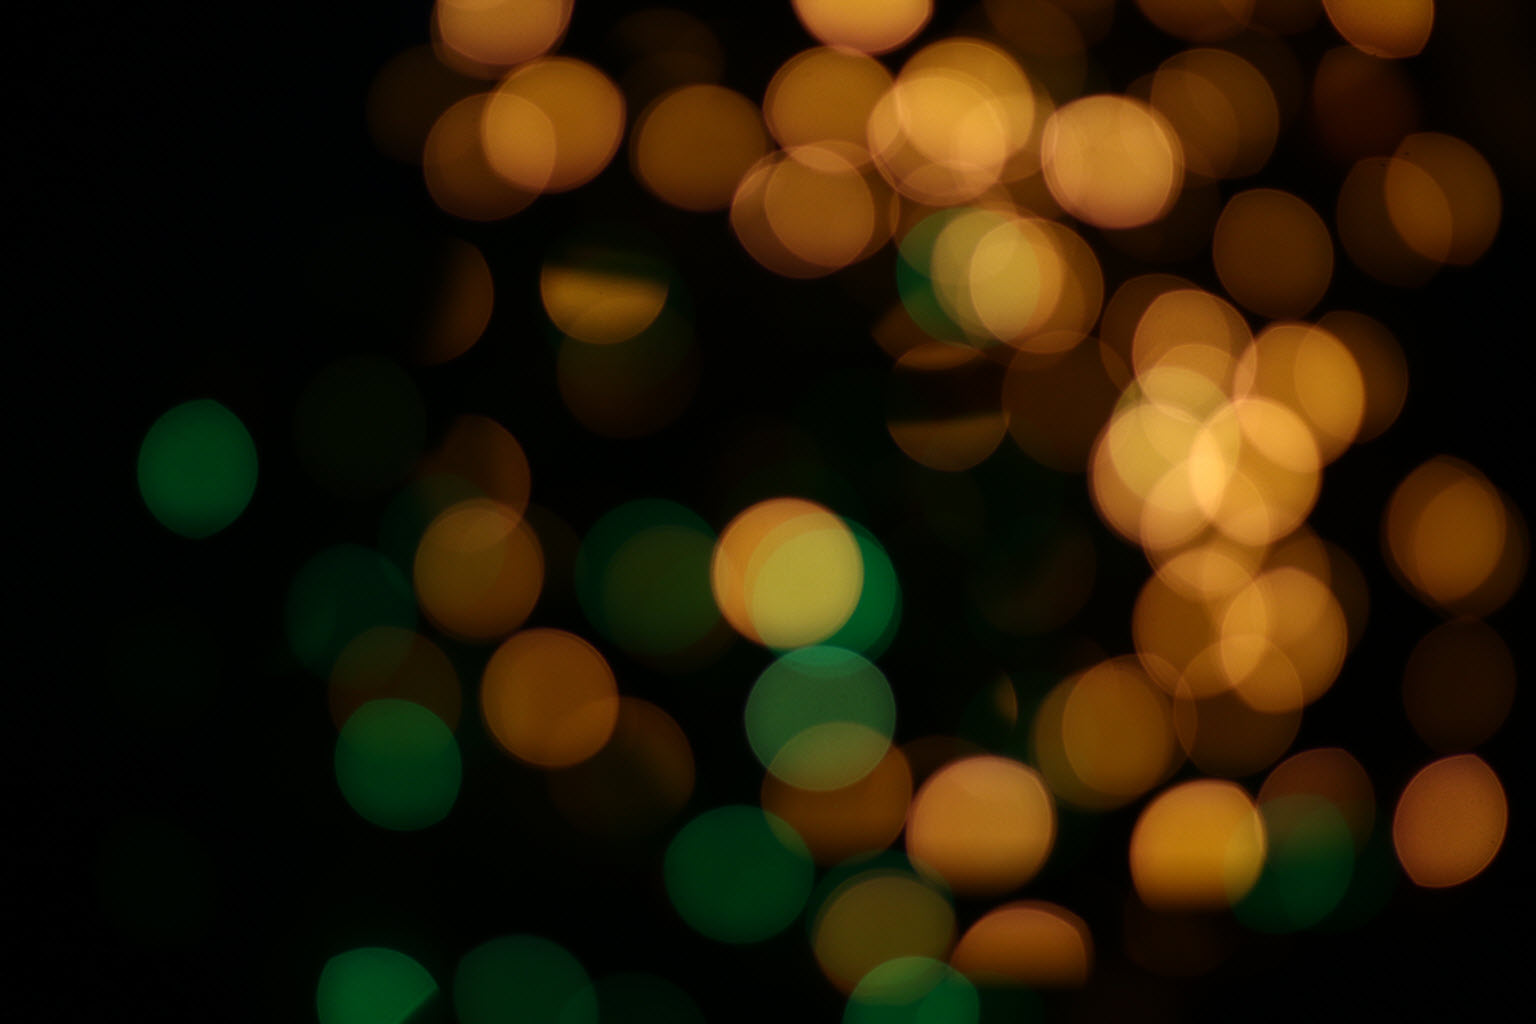
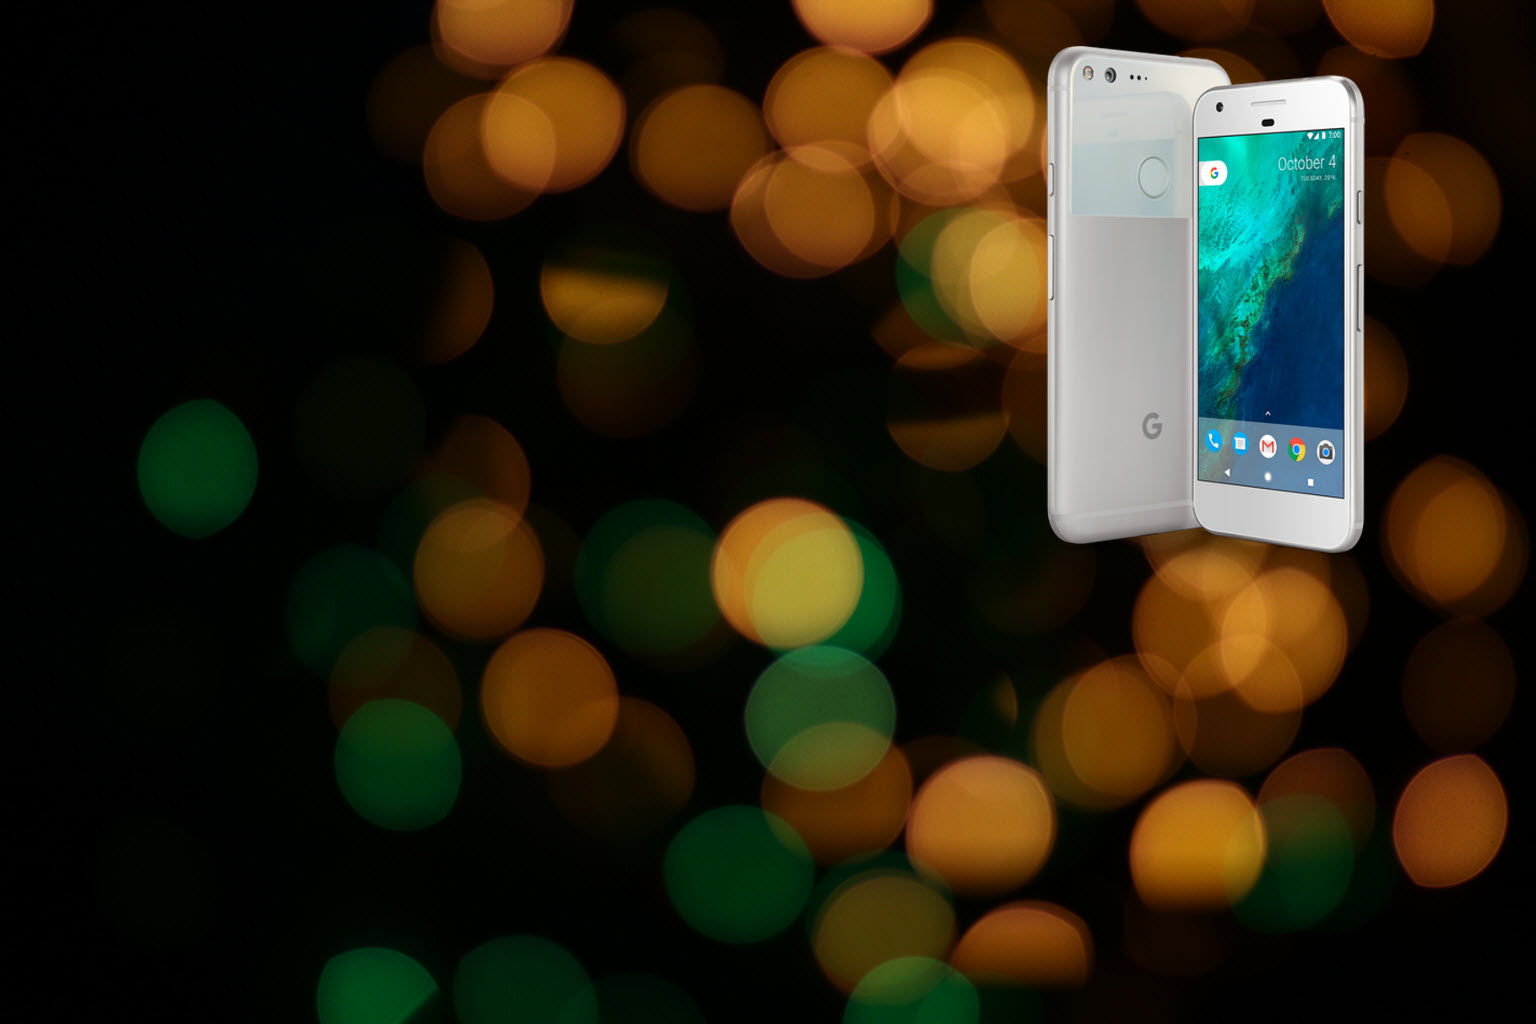
Added Telecom

Changed region(s): [[0.6562, 0.0312, 0.9062, 0.5625]]

diff --git a/app/templates/telecom.html b/app/templates/telecom.html
@@ -1,0 +1,247 @@
+{% extends "base.html" %}
+
+<!DOCTYPE html>
+<html lang="en">
+
+
+
+<title>Turner Manufacturing</title>
+<body>
+
+    {% block navbar %}
+
+    <!--Navbar-->
+    <nav class="navbar navbar-fixed-top navbar-dark bg-primary">
+
+        <!-- Collapse button-->
+        <button class="navbar-toggler hidden-sm-up" type="button" data-toggle="collapse" data-target="#collapseEx2">
+            <i class="fa fa-bars"></i>
+        </button>
+
+        <div class="container">
+
+            <!--Collapse content-->
+            <div class="collapse navbar-toggleable-xs" id="collapseEx2">
+                
+                <!--Navbar Brand-->
+                <a class="navbar-brand"></a>
+                
+                <!--Links-->
+                <ul class="nav navbar-nav">
+                    <!-- <li id="navbar-logo" class="nav-item">
+                        <a class="nav-link">
+                            <img src="../static/img/turner-travel.png">
+                        </a>
+                    </li> -->
+                    <li class="nav-item active">
+                        <a class="nav-link">Phones & Devices <span class="sr-only">(current)</span></a>
+                    </li>
+                    <li class="nav-item">
+                        <a class="nav-link">Plans & Services</a>
+                    </li>
+                    <li class="nav-item">
+                        <a class="nav-link">Accessories  </a>
+                    </li>
+                    <li class="nav-item">
+                        <a class="nav-link">Why Turner</a>
+                    </li>
+                    <li class="nav-item">
+                        <a class="nav-link">Deals & Offers</a>
+                    </li>                    
+                    
+                </ul>
+
+                <ul class="nav navbar-nav nav-flex-icons">
+                    <li class="nav-item btn-group">
+                        <a class="nav-link dropdown-toggle" id="dropdownMenu1" data-toggle="dropdown" aria-haspopup="true" aria-expanded="false">Content Recommendations</a>
+                        <div class="dropdown-menu" aria-labelledby="dropdownMenu1">
+                            <a class="dropdown-item" href="http://sjrtp-proxy.marketo.com/proxy/rtp/preview?rtp.cuid=be490296-e57b-430c-9aed-3fc49c52cf17&_dc=1482954438051">Display Ad- Economist</a>
+                            <a class="dropdown-item" href="http://sjrtp-proxy.marketo.com/proxy/rtp/preview?rtp.cuid=8a8b4d06-9461-4ff3-8718-2040b36d3762&_dc=1482954483838">Display Ad- Facebook</a>
+                            <div class="dropdown-divider"></div>
+                            <h6 class="dropdown-header">Verticals</h6>
+                            <div class="dropdown-divider"></div>
+                            <a class="dropdown-item" href="assetmgmt">Asset Management</a>
+                            <a class="dropdown-item" href="healthcare">Healthcare</a>
+                            <a class="dropdown-item" href="highered">Higher Education</a>
+                            <a class="dropdown-item" href="manufacturing">Manufacturing</a>
+                            <a class="dropdown-item" href="financialservices">Retail Banking</a>
+                            <a class="dropdown-item" href="technology">Technology</a>
+                            <a class="dropdown-item" href="travel">Travel</a>      
+                            <a class="dropdown-item" href="travel">Telecom</a>
+                        </div>
+                    </li>       
+                </ul>
+            </div>
+            <!--/.Collapse content-->
+
+        </div>
+
+    </nav>
+    <!--/.Navbar-->
+
+        
+    {% endblock %} 
+
+    {% block carousel_content %}
+    <!--Carousel Wrapper-->
+    <div id="carousel-example-1" class="carousel slide carousel-fade" data-ride="carousel">
+
+        <!--Slides-->
+        <div class="carousel-inner" role="listbox">
+
+            <!--First slide-->
+            <div class="carousel-item active" id="rtp-replace" style= "background-image: url(../static/img/317_hero.jpg)";>
+
+                <!--Caption-->
+                <div class="flex-center animated fadeInDown">
+                    <ul>
+                        <li>
+                            <h1 class="h1-responsive">Ends Soon, Buy a new Pixel for $499.</h1></li>
+                        <li>
+                           <a target="_blank" href="http://mdbootstrap.com/material-design-for-bootstrap/" class="btn btn-default btn-lg bg-primary">Read More</a>
+                        </li>
+                    </ul>
+                </div>
+                <!--Caption-->
+            </div>
+            <!--/.First slide-->
+
+        </div>
+        <!--/.Slides-->
+        
+    </div>
+    <!--/.Carousel Wrapper-->
+
+    {% endblock %}
+
+    {% block page_content %}
+    <!--Content-->
+    <div class="container">
+        
+        <div class="row">
+            <!--First columnn-->
+            <div class="col-md-4">
+                <!--Card-->
+                <div class="card">
+
+                    <!--Card image-->
+                    <div class="view overlay hm-white-slight">
+                        <img src="../static/img/telecom_card1.jpg" class="img-fluid" alt="">
+                        <a href="#">
+                            <div class="mask"></div>
+                        </a>
+                    </div>
+                    <!--/.Card image-->
+
+                    <!--Card content-->
+                    <div class="card-block">
+                        <!--Title-->
+                        <h4 class="card-title">Data plans</h4>
+                        <!--Text-->
+                        <p class="card-text">Stays Social ! Get unlimited shared data with no overage charges. All in one plan.</p>
+                        <a href="#" class="btn btn-primary">Learn more</a>
+                    </div>
+                    <!--/.Card content-->
+
+                </div>
+                <!--/.Card-->
+            </div>
+            <!--First columnn-->
+
+            <!--Second columnn-->
+            <div class="col-md-4">
+                <!--Card-->
+                <div class="card">
+
+                    <!--Card image-->
+                    <div class="view overlay hm-white-slight">
+                        <img src="../static/img/telecom_card2.jpg" class="img-fluid" alt="">
+                        <a href="#">
+                            <div class="mask"></div>
+                        </a>
+                    </div>
+                    <!--/.Card image-->
+
+                    <!--Card content-->
+                    <div class="card-block">
+                        <!--Title-->
+                        <h4 class="card-title">Network Coverage</h4>
+                        <!--Text-->
+                        <p class="card-text">We have the widest network coverage on our state of the art 4G LTE Advanced network.</p>
+                        <a href="#" class="btn btn-primary">Read More</a>
+                    </div>
+                    <!--/.Card content-->
+
+                </div>
+                <!--/.Card-->
+            </div>
+            <!--Second columnn-->
+
+            <!--Third columnn-->
+            <div class="col-md-4">
+                <!--Card-->
+                <div class="card">
+
+                    <!--Card image-->
+                    <div class="view overlay hm-white-slight">
+                        <img src="../static/img/telecom_card3.jpg" class="img-fluid" alt="">
+                        <a href="#">
+                            <div class="mask"></div>
+                        </a>
+                    </div>
+                    <!--/.Card image-->
+
+                    <!--Card content-->
+                    <div class="card-block">
+                        <!--Title-->
+                        <h4 class="card-title">Accessories</h4>
+                        <!--Text-->
+                        <p class="card-text">Now available, Morpheus Juice Pack Case. It's your new case to stay in charge.</p>
+                        <a href="#" class="btn btn-primary">Watch Video</a>
+                    </div>
+                    <!--/.Card content-->
+
+                </div>
+                <!--/.Card-->
+            </div>
+            <!--Third columnn-->
+        </div>
+
+        
+        <aside id="mk-sidebar" class="mk-builtin"><div class="sidebar-wrapper">
+            <style>
+                .RTP_RCMD2 {
+                    line-height: normal !important;
+                }
+                .RTP_RCMD2 [data-rtp-id="rtp_rcmd2_tpl_2"] .rtp_rcmd2_img_container {
+                    height: 100% !important;
+                }
+            </style>
+            <div class="RTP_RCMD2" data-rtp-template-id="template1"></div> 
+
+                <script type="text/javascript">// 
+                rtp('set', 'rcmd', 'richmedia','template1',
+                {
+                    "rcmd.title.text" : "RECOMMENDED CONTENT",
+                    "rcmd.cta.text" : "READ MORE",
+                    "rcmd.title.background.color" : "#4285F4",
+                    "rcmd.title.font.color" : "white",
+                    "rcmd.content.background.color" :"#E2E2E2",
+                    "rcmd.cta.background.color" : "#2BBBAD",
+                    "category": ["Asset Management"]
+                }
+                );
+                rtp('get','rcmd', 'richmedia');
+                </script> </div>
+        </aside>
+
+    </div>
+
+
+    <!--/.Content-->
+    {% endblock %}		        
+ 
+
+</body>
+
+</html>

diff --git a/app/views.py b/app/views.py
@@ -19,7 +19,7 @@ app_dir = os.path.abspath(os.path.dirname(__file__))
 # 		 'customer-base-marketing', 'mobile-marketing', 'higher-education',
 # 		 'financial-services', 'healthcare']
 
-pages = ['base', 'custombase','travel','healthcare','technology','manufacturing','highered','assetmgmt','financialservices','facebook','economist',
+pages = ['base', 'custombase','travel','healthcare','technology','manufacturing','highered','assetmgmt','financialservices','telecom','facebook','economist',
 		'search_manufacturing_static','searchasset_static','search_health_care_static','search_higher_ed_static','search_fin_serv_static','search_tech_static','search_travel_static',
 		'New-advances-in-pediatric-healthcare','Encourage-investments-in-long-term-health','Cutting-screening-time-at-hospital',
 		'Marketing-in-Higher-Ed-How-to-Improve-Your-Grades','Higher-Education-A-Changing-World-for-Marketers','How-Digital-Marketing-is-Reshaping-Financial-Services',
